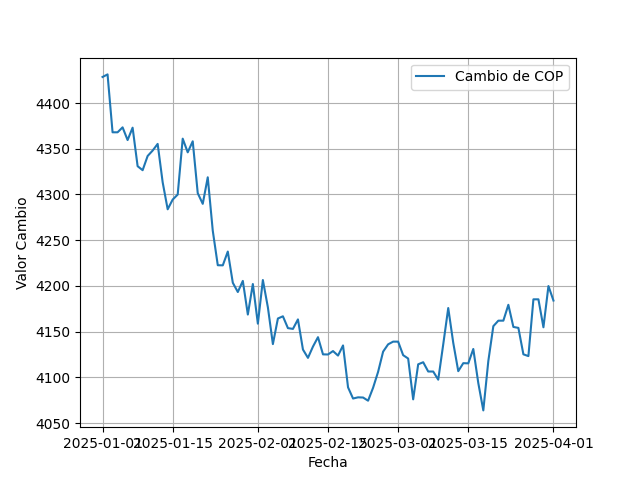
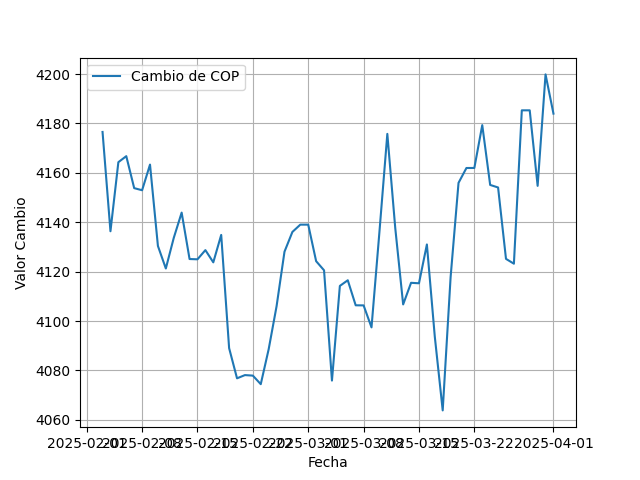
Se completa el calculo y despliegue de las estadististicas de manera FUNCIONAL

diff --git a/CambiosMonedas.py b/CambiosMonedas.py
@@ -6,6 +6,8 @@ import Util
 import csv
 from datetime import datetime
 import matplotlib.pyplot as plt
+from functools import reduce
+import math
 
 iconos = ["./iconos/Grafica.png", "./iconos/Datos.png"]
 textos = ["Gráfica Fecha vs Cambio", "Calculas Estadísticas"]
@@ -67,11 +69,131 @@ def mostrarGrafica():
         plt.grid()
         plt.legend()
 
-        plt.savefig("graficaCambiosMoneda.png")
+        #guardar la grafica
+        nombreArchivo="graficaCambiosMoneda.png"
+        plt.savefig(nombreArchivo)
+        #cargar la grafica
+        imgGrafica = PhotoImage(file = nombreArchivo)
+
+        #crear LABEL para mostrar la grafica en el primer panel
+        lblGrafica=Label(paneles[0])
+        lblGrafica.config(image=imgGrafica)
+        lblGrafica.image=imgGrafica
+
+        lblGrafica.place(x=0, y=0)
+
+        #redimensionar la ventana
+        ventana.minsize(imgGrafica.width(), imgGrafica.height()+100)
+
+        #seleccionar el panel respectivo
+        nb.select(0)
+
+def extraerCambios(datos):
+    return list(map(lambda dato: dato["cambio"], datos))
         
+#calculos de las estadisticas
+def calcularPromedio(cambios):
+    return reduce(lambda suma, cambio: suma + cambio, cambios) / len(cambios) if cambios else 0
+
+    #funcional Pythonica
+    return sum(cambios) / len(cambios) if cambios else 0
+
+    #No funcional
+    suma = 0
+    if cambios:
+        for cambio in cambios:
+            suma += cambio
+    return suma / len(cambios)
+
+def calcularDesviacionEstandar(cambios):
+    promedio = calcularPromedio(cambios)
+    return math.sqrt(reduce(lambda suma, cambio: suma + (cambio-promedio)**2, cambios, 0) / len(cambios) if cambios else 0)
+
+    #No funcional
+    desviacion = 0
+    if cambios:
+        promedio = calcularPromedio(cambios)
+        suma = 0
+        for cambio in cambios:
+            suma += (cambio-promedio)**2
+        desviacion = math.sqrt(suma / len(cambios))
+    return desviacion
+
+def calcularMaximo(cambios):
+    return reduce(lambda maximo, cambio: cambio if cambio>maximo else maximo, cambios) if cambios else 0
+
+def calcularMinimo(cambios):
+    return reduce(lambda minimo, cambio: cambio if cambio<minimo else minimo ,cambios) if cambios else 0
+
+def calcularModa(cambios):
+    #hallar la frecuencia de cada dato
+    frecuencias = reduce(lambda diccionarios, cambio: {**diccionarios, cambio: diccionarios.get(cambio, 0) + 1}, cambios, {}) 
+    #hallar la mayor frecuencia
+    frecuenciaMaxima = reduce(lambda maximo, frecuencia: frecuencia if frecuencia[1]>maximo[1] else maximo, frecuencias.items())
+    return frecuenciaMaxima[0] if frecuenciaMaxima[1] > 1 else None
+
+    #funcional Pythonica
+    try:
+        return mode(cambios) if cambios else 0
+    except statistics.StatisticsError:
+        return None
+
+def calcularEstadisticas(moneda, desde, hasta):
+    datos = obtenerDatos()
+    datosFiltrados = filtrarDatos(datos, moneda, desde, hasta)
+    cambios = extraerCambios(datosFiltrados)
+
+    moda = calcularModa(cambios)
+    return {
+        "Promedio:" : calcularPromedio(cambios),
+        "Desviación estandar:": calcularDesviacionEstandar(cambios),
+        "Máximo:": calcularMaximo(cambios),
+        "Mínimo:": calcularMinimo(cambios),
+        "Moda:": moda if moda else "No hay moda"
+        }
 
 def mostrarEstadisticas():
-    messagebox.showinfo("", "Hizo clic en ESTADISTICAS")
+    if cmbMoneda.current() >= 0:
+        #obtener datos de entrada
+        moneda = monedas[cmbMoneda.current()]
+        desde = datetime.strptime(cldDesde.get(), "%d/%m/%Y")
+        hasta = datetime.strptime(cldHasta.get(), "%d/%m/%Y")
+        
+        estadisticas = calcularEstadisticas(moneda, desde, hasta)
+        #mostrar resultados
+        for i, (clave, valor) in enumerate(estadisticas.items()):
+            Util.agregarEtiqueta(paneles[1], clave, i, 0)
+            Util.agregarEtiqueta(paneles[1], valor, i, 1)
+
+        #seleccionar el panel respectivo
+        nb.select(1)
+        return
+        
+
+        #No funcional
+        #mostrar el promedio
+        Util.agregarEtiqueta(paneles[1], "Promedio:", 0, 0)
+        Util.agregarEtiqueta(paneles[1], calcularPromedio(cambios), 0, 1)
+
+        #mostrar la desviación estandar
+        Util.agregarEtiqueta(paneles[1], "Desviación estandar:", 1, 0)
+        Util.agregarEtiqueta(paneles[1], calcularDesviacionEstandar(cambios), 1, 1)
+
+        #mostrar el máximo
+        Util.agregarEtiqueta(paneles[1], "Máximo:", 2, 0)
+        Util.agregarEtiqueta(paneles[1], calcularMaximo(cambios), 2, 1)
+
+        #mostrar el mínimo
+        Util.agregarEtiqueta(paneles[1], "Mínimo:", 3, 0)
+        Util.agregarEtiqueta(paneles[1], calcularMinimo(cambios), 3, 1)
+
+        #mostrar la moda
+        moda = calcularModa(cambios)
+        Util.agregarEtiqueta(paneles[1], "Moda:", 4, 0)
+        Util.agregarEtiqueta(paneles[1],  moda if moda else "No hay moda"  , 4, 1)
+
+
+        
 
 ventana = Tk()
 ventana.title("Cambios de Moneda")
@@ -94,6 +216,8 @@ cldHasta = Util.agregarCalendario(frmMoneda, 0, 3)
 nb = Notebook(ventana)
 nb.pack(fill=BOTH, expand=YES)
 pestañas = ["Gráfica", "Estadisticas"]
+paneles = []
 for p in pestañas:
     frm = Frame(ventana)
+    paneles.append(frm)
     nb.add(frm, text=p)
